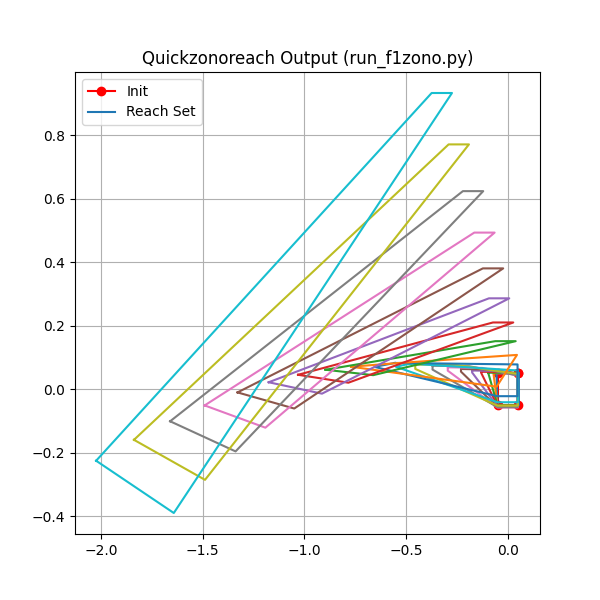
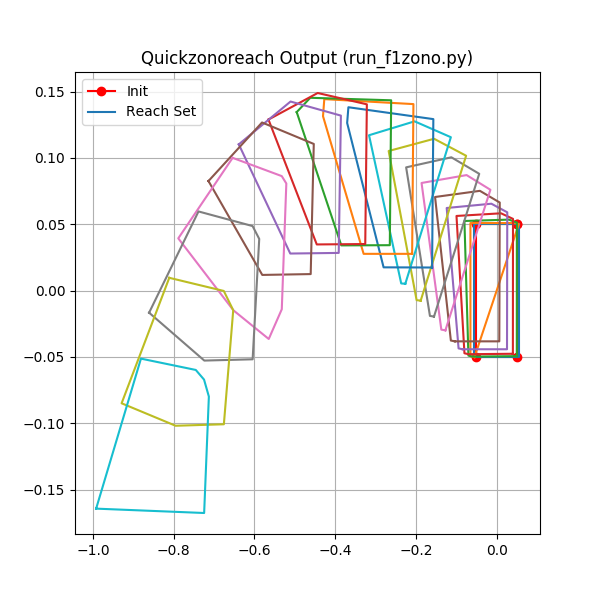
some sample outputs

diff --git a/reachability/scripts/run_f1zono.py b/reachability/scripts/run_f1zono.py
@@ -33,7 +33,7 @@ state_uncertainty = [.05, .05, 0]
 input_uncertainty = [.1, 3.14/90] # .1m/s , 2deg
 nlDynamics = F1Dynamics()
 stepFunc = partial(nlDynamics.frontStep, nlDynamics)
-inputFunc = lambda t : [ -4 * t, -1 * math.sin(3.14 * t)/8]
+inputFunc = lambda t : [ -2 * t, -2 * math.sin(3.14 * t)/4]
 headless = True
 fy = F1QuickZono() 
 
